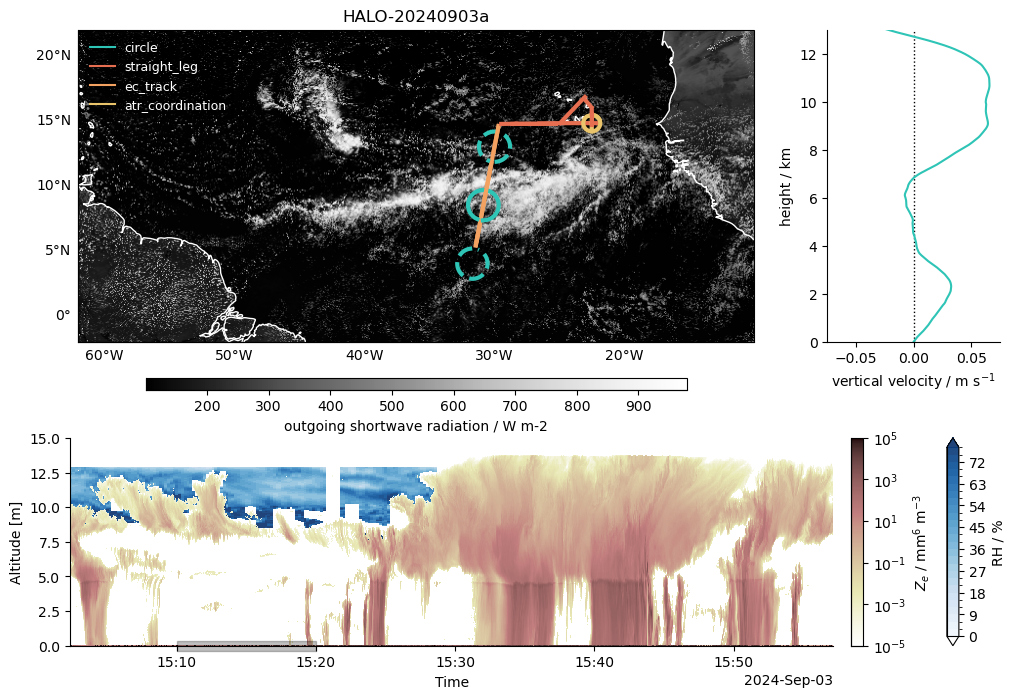
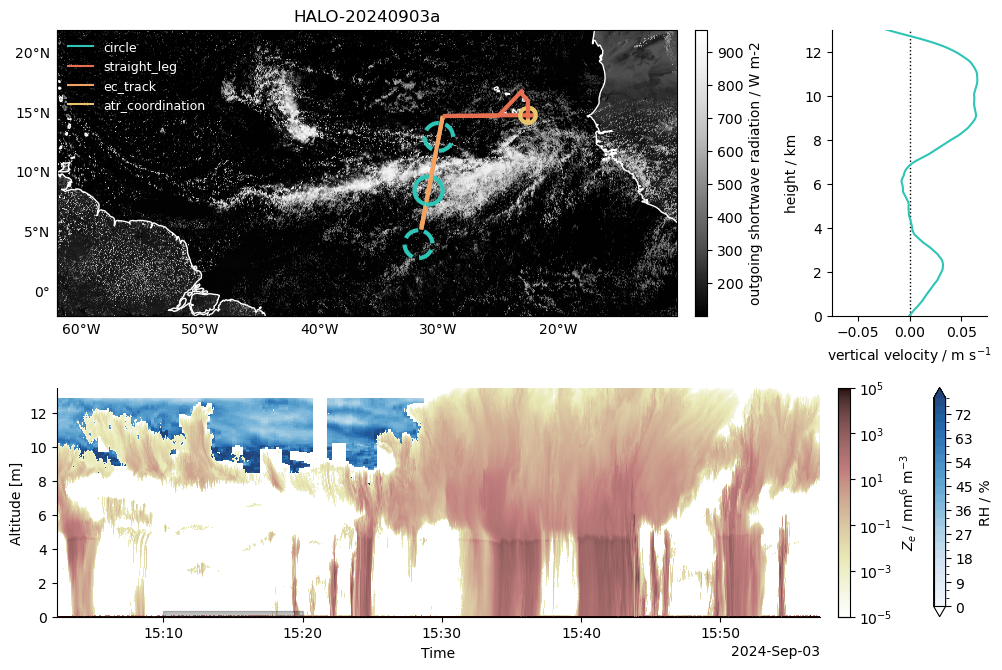
Improves the snapshot figures by rearranging the colorbar etc.

diff --git a/scripts/figures_itcz_weak_winds.py b/scripts/figures_itcz_weak_winds.py
@@ -102,7 +102,7 @@ ds_hamp_radar_flight = open_dataset("hamp_radar").sel(
 # LAM dataset
 time = f"{flight_date} 16:00"
 
-lam_ds = open_dataset("lam").sel(time=time)
+lam_ds = open_dataset("lam")[["uas", "vas"]].sel(time=time)
 lam_ds = lam_ds.assign(sfcwind=lambda dx: np.hypot(dx.uas, dx.vas))
 ds_lam_sel = lam_ds["sfcwind"].compute()
 
@@ -118,7 +118,7 @@ scatter_kwargs = {
 fig = plt.figure(figsize=(12, 8))
 
 gs = fig.add_gridspec(
-    2, 2, height_ratios=[1.5, 1], width_ratios=[4, 1], hspace=0.37, wspace=0.15
+    2, 2, height_ratios=[1.5, 1], width_ratios=[4, 1], hspace=0.15, wspace=0.4
 )
 
 ax_lam = fig.add_subplot(gs[0, 0], projection=ccrs.PlateCarree())
@@ -133,22 +133,20 @@ norm = TwoSlopeNorm(vmin=vmin, vcenter=vcenter, vmax=vmax)
 cmap = plt.cm.BrBG.copy()
 im = egh.healpix_show(ds_lam_sel, cmap=cmap, norm=norm, ax=ax_lam, alpha=1.0)
 
-pos = ax_lam.get_position()
-width_scale = 0.8
 
-cax_lam = fig.add_axes(
-    [
-        pos.x0 + pos.width * (1 - width_scale) / 2,  # left
-        pos.y1 - 0.445,  # bottom
-        pos.width * width_scale,  # width
-        0.015,  # height
-    ]
-)
+ax_lam.apply_aspect()
+pos = ax_lam.get_position()
+
+pos_ds = ax_ds.get_position()
+ax_ds.set_position([pos_ds.x0, pos.y0, pos_ds.width, pos.height])
+
+cbar_width = 0.01
+cax_lam = fig.add_axes([pos.x1 + 0.015, pos.y0, cbar_width, pos.height])
 
 cb_lam = fig.colorbar(
     im,
     cax=cax_lam,
-    orientation="horizontal",
+    orientation="vertical",
     label=r"$u_{\text{sfc}}$ / m s$^{-1}$",
 )
 
@@ -172,7 +170,7 @@ ax_lam.scatter(
     sondes_flight_day.launch_lon,
     sondes_flight_day.launch_lat,
     facecolors="none",
-    label="dropsonde",
+    label=r"$\overline{u}_{0\text{--}100\,\mathrm{m}} \geq 3$ m s$^{-1}$",
     alpha=0.5,
     **scatter_kwargs,
 )
@@ -181,11 +179,18 @@ ax_lam.scatter(
     dol_sondes_flight_day.launch_lon,
     dol_sondes_flight_day.launch_lat,
     color=None,
-    label="doldrums dropsonde",
+    label=r"$\overline{u}_{0\text{--}100\,\mathrm{m}} < 3$ m s$^{-1}$",
     alpha=0.75,
     zorder=10,
     facecolors="k",
     **scatter_kwargs,
+)
+
+ax_lam.legend(
+    loc="upper left",
+    ncol=1,
+    labelcolor="k",
+    fontsize=9,
 )
 
 ax_lam.set_xlabel("longitude / °")
@@ -309,6 +314,22 @@ for t in specMACS_start_times:
         linewidth=2.0,
         clip_on=False,
     )
+
+dol_sondes_launch_times = dol_sondes_flight_day.launch_time.values
+dol_sondes_launch_times = dol_sondes_launch_times[
+    (dol_sondes_launch_times >= segment_start)
+    & (dol_sondes_launch_times <= segment_end)
+]
+
+ax_wales.scatter(
+    dol_sondes_launch_times,
+    np.full(dol_sondes_launch_times.shape, 0),  # axes fraction
+    transform=ax_wales.get_xaxis_transform(),
+    color="k",
+    marker="v",
+    s=50,
+    clip_on=False,
+)
 
 sns.despine()
 

diff --git a/scripts/figures_itcz_deep_convection.py b/scripts/figures_itcz_deep_convection.py
@@ -6,7 +6,6 @@ import numpy as np
 
 import matplotlib.pyplot as plt
 import matplotlib.colors as colors
-from matplotlib.colors import TwoSlopeNorm
 
 import easygems.healpix as egh
 import seaborn as sns
@@ -100,7 +99,7 @@ ec_start, ec_end = ec_underpass_events[0]["time"] - np.timedelta64(
 fig = plt.figure(figsize=(12, 8))
 
 gs = fig.add_gridspec(
-    2, 2, height_ratios=[1.5, 1], width_ratios=[4, 1], hspace=0.37, wspace=0.15
+    2, 2, height_ratios=[1.5, 1], width_ratios=[4, 1], hspace=0.15, wspace=0.4
 )
 
 ax_sat = fig.add_subplot(gs[0, 0], projection=ccrs.PlateCarree())
@@ -111,22 +110,19 @@ ax_hamp = fig.add_subplot(gs[1, :])
 base_map(coastline_kwargs={"color": "w"}, ax=ax_sat)
 im = egh.healpix_show(ds_lam_sel, ax=ax_sat, alpha=1.0, cmap="Greys_r")
 
+ax_sat.apply_aspect()
 pos = ax_sat.get_position()
-width_scale = 0.8
 
-cax_lam = fig.add_axes(
-    [
-        pos.x0 + pos.width * (1 - width_scale) / 2,  # left
-        pos.y1 - 0.45,  # bottom
-        pos.width * width_scale,  # width
-        0.015,  # height
-    ]
-)
+pos_ds = ax_ds.get_position()
+ax_ds.set_position([pos_ds.x0, pos.y0, pos_ds.width, pos.height])
+
+cbar_width = 0.01
+cax_lam = fig.add_axes([pos.x1 + 0.015, pos.y0, cbar_width, pos.height])
 
 cb_lam = fig.colorbar(
     im,
     cax=cax_lam,
-    orientation="horizontal",
+    orientation="vertical",
     label=rf"outgoing shortwave radiation / {ds_lam_sel.units}",
 )
 
@@ -245,7 +241,7 @@ for event in meteor_overpass_events:
     )
     print(f"METEOR Overpass at {event['time']}")
 
-ax_hamp.set_ylim(ymin=0)
+ax_hamp.set_ylim(ymin=0, ymax=13.5)
 
 circles_flight_day.sel(circle_id=segment_for_plot["segment_id"]).wvel.plot(
     y="altitude", ax=ax_ds, label="Vertical velocity", color=kinds2color("circle")
@@ -277,7 +273,6 @@ ax_hamp.axvspan(
     0.025,
     color="k",
     alpha=0.25,
-    clip_on=False,
 )
 
 

diff --git a/scripts/figures_itcz_outside.py b/scripts/figures_itcz_outside.py
@@ -68,8 +68,8 @@ ds_hamp_passiv_segment = ds_hamp_passiv_flight.sel(
 # %%
 # LAM dataset
 time = f"{flight_date} 16:00"
-lam_ds = open_dataset("lam").sel(time=time)
-ds_lam_sel = lam_ds["prw"].compute()
+lam_ds = open_dataset("lam")["prw"].sel(time=time)
+ds_lam_sel = lam_ds.compute()
 
 # %%
 # Vertical velocity in the lower to mid-tropsphere in the circle segment
@@ -131,7 +131,7 @@ scatter_kwargs = {
 fig = plt.figure(figsize=(12, 8))
 
 gs = fig.add_gridspec(
-    2, 2, height_ratios=[1.5, 1], width_ratios=[4, 1], hspace=0.37, wspace=0.4
+    2, 2, height_ratios=[1.5, 1], width_ratios=[4, 1], hspace=0.15, wspace=0.4
 )
 
 ax_lam = fig.add_subplot(gs[0, 0], projection=ccrs.PlateCarree())
@@ -157,6 +157,9 @@ egh.healpix_contour(
 
 ax_lam.apply_aspect()
 pos = ax_lam.get_position()
+
+pos_ds = ax_ds.get_position()
+ax_ds.set_position([pos_ds.x0, pos.y0, pos_ds.width, pos.height])
 
 cbar_width = 0.01
 cax_lam = fig.add_axes([pos.x1 + 0.015, pos.y0, cbar_width, pos.height])
